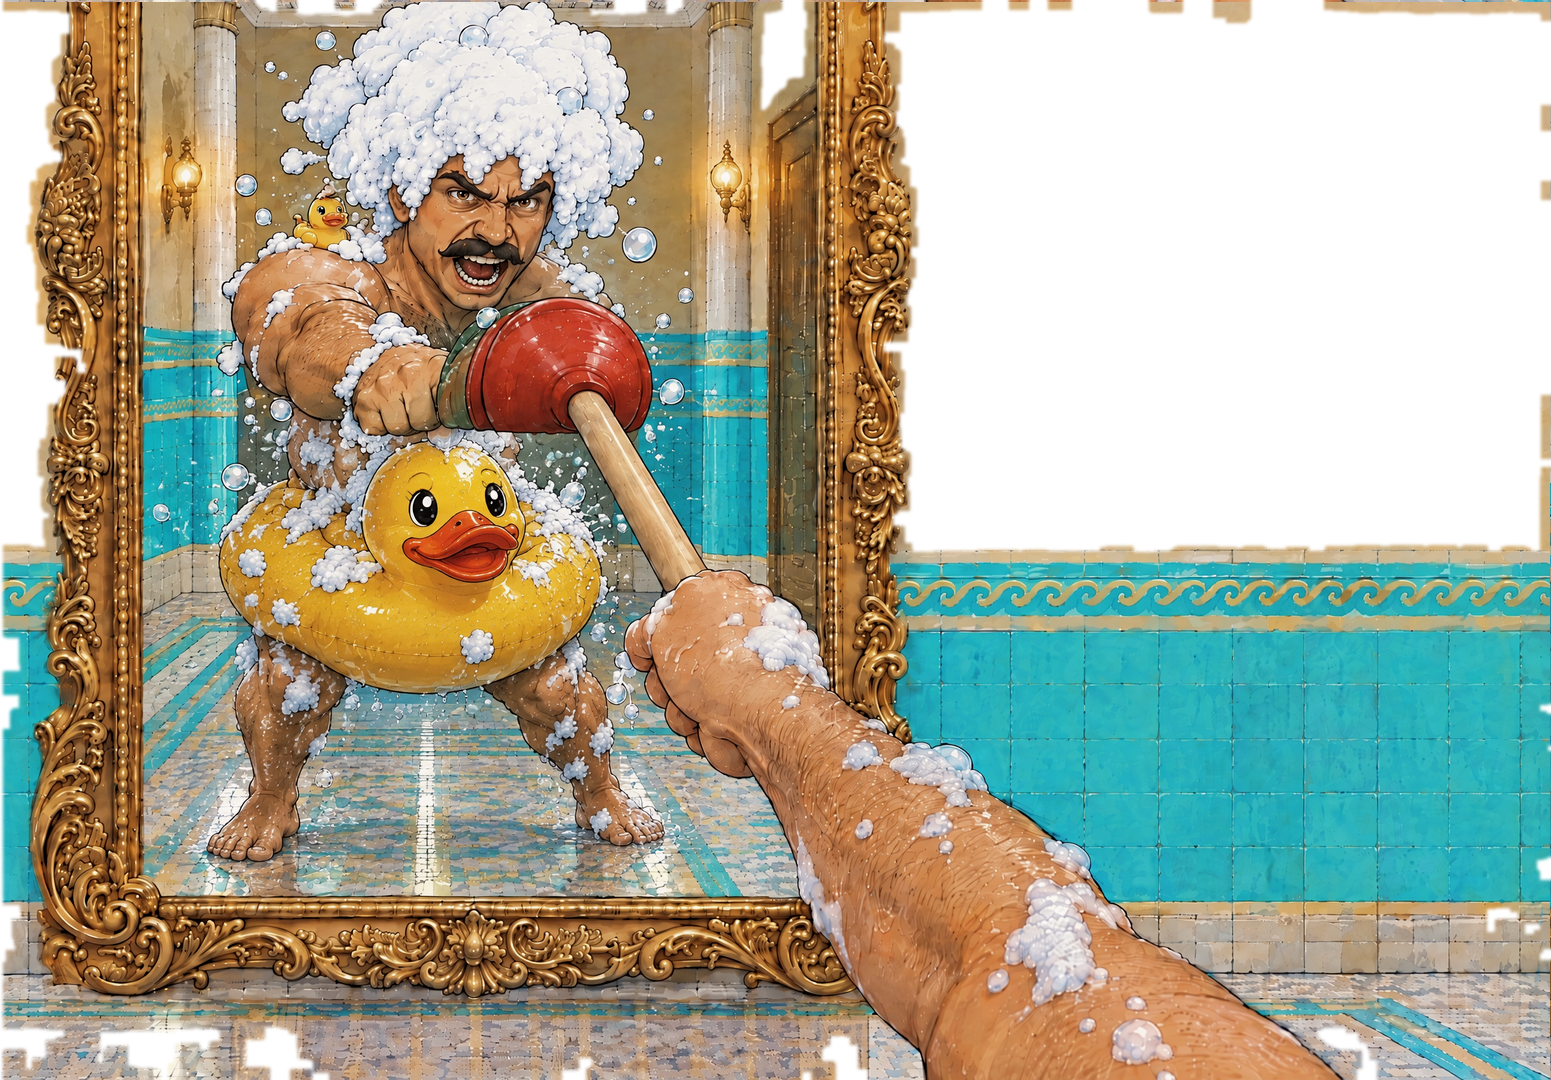
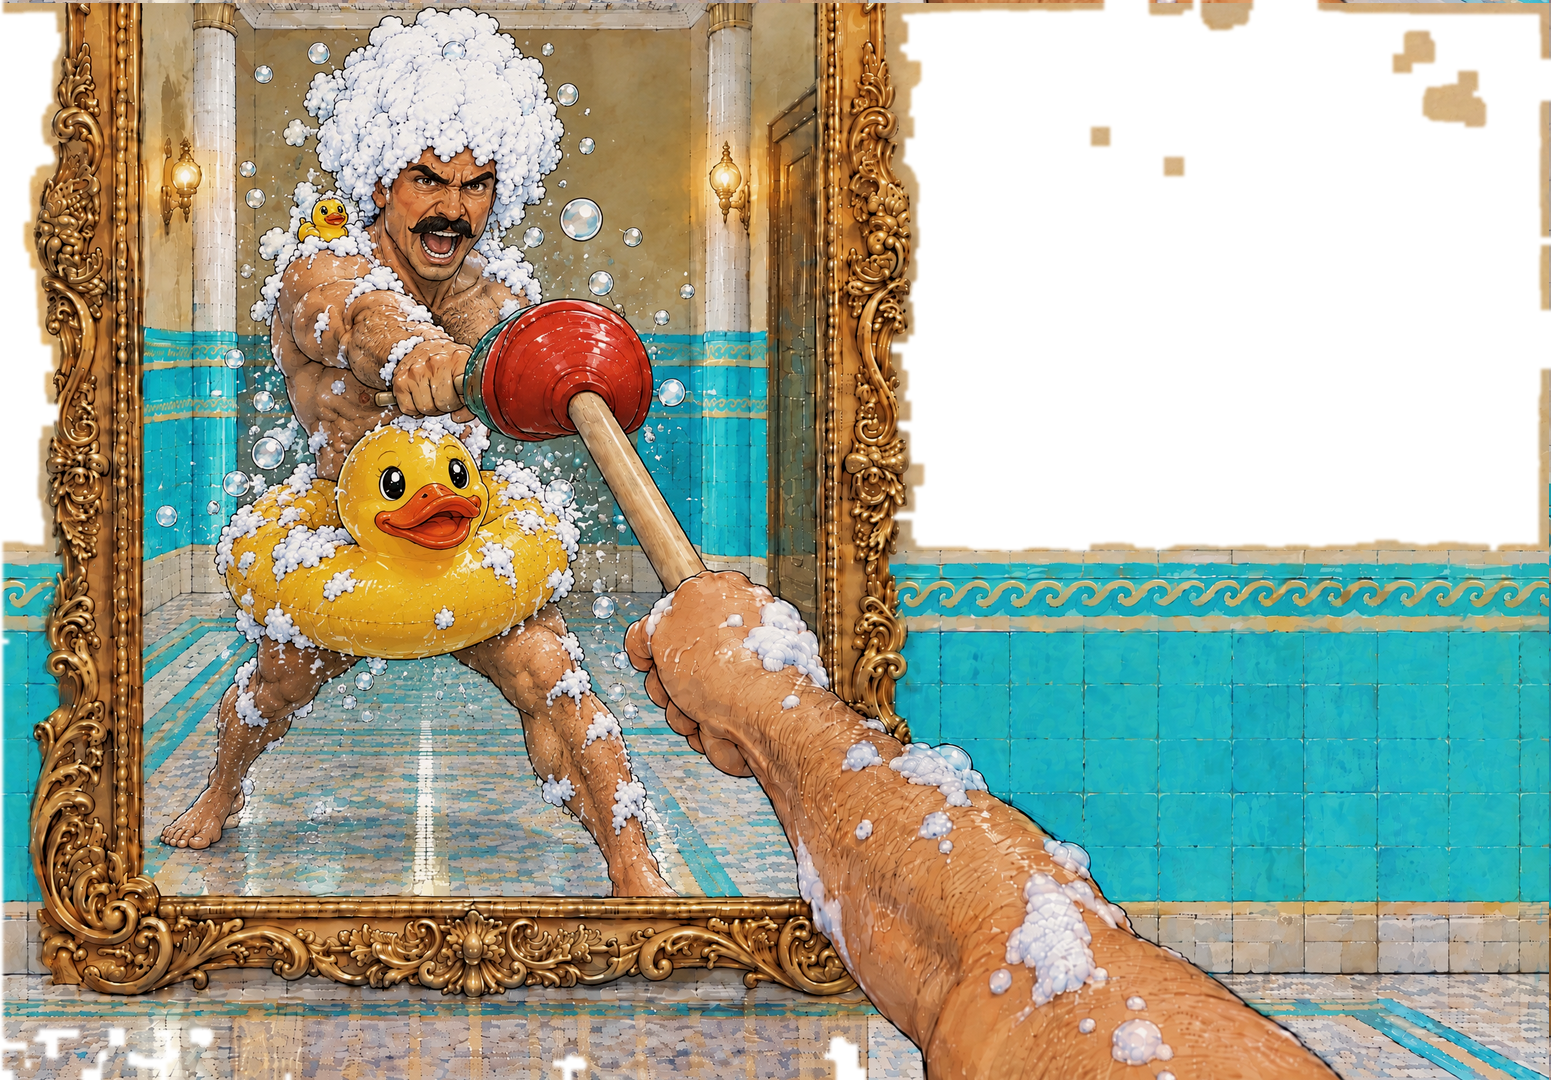
Z11 зеркало и вантуз: нормальные пропорции отражения (замечание автора)
Claude-Session: https://claude.ai/code/session_01KtQKgqP4XoDbZ9H4UhrjXu

diff --git a/work/higgsfield/candidates/mirror_clear_1011/README.md b/work/higgsfield/candidates/mirror_clear_1011/README.md
@@ -13,3 +13,5 @@
 | `st_w4_mirror_aside` | ef4ecbde от склейки (0cc70a35) | `--box 425,360,585,650 --thresh 12` |
 
 Отклонены: 1c305a69, 4b2b2dce — отказ фильтра генератора (слово «голый» и подробности); e877efe0 — уточка-круг, а пол в воде.
+
+**Замечание автора 11.10.2026: «вантуз обрезан, странные пропорции».** Переделаны отражения с нормальными пропорциями (голова ≈ 1/7 роста): `st_z11_mirror` — f64b760e (от b80fae6a), `st_z11_hand_plunger` — 98533ff6 (от fcdf0850, выпад, вантуз отражения в кулаке у чашки); те же вырезки. Прежние b80fae6a/fcdf0850 — отклонены.
